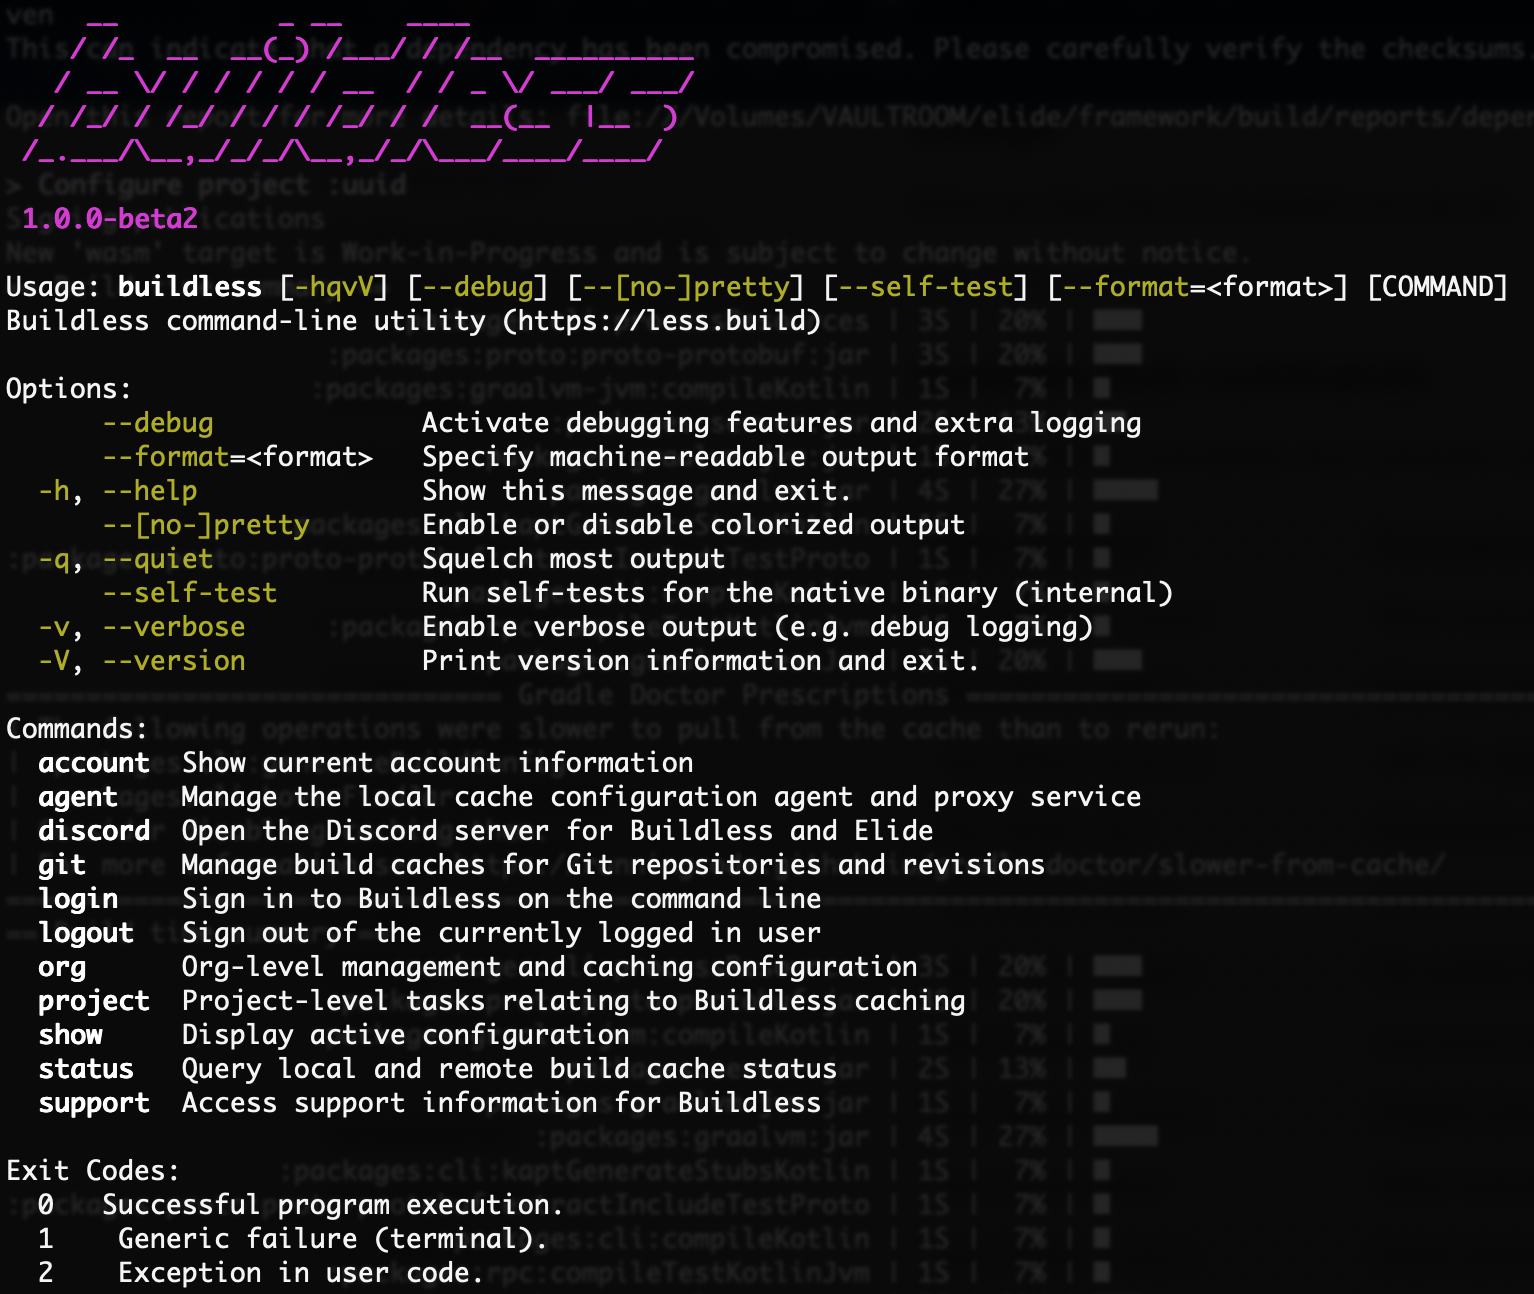
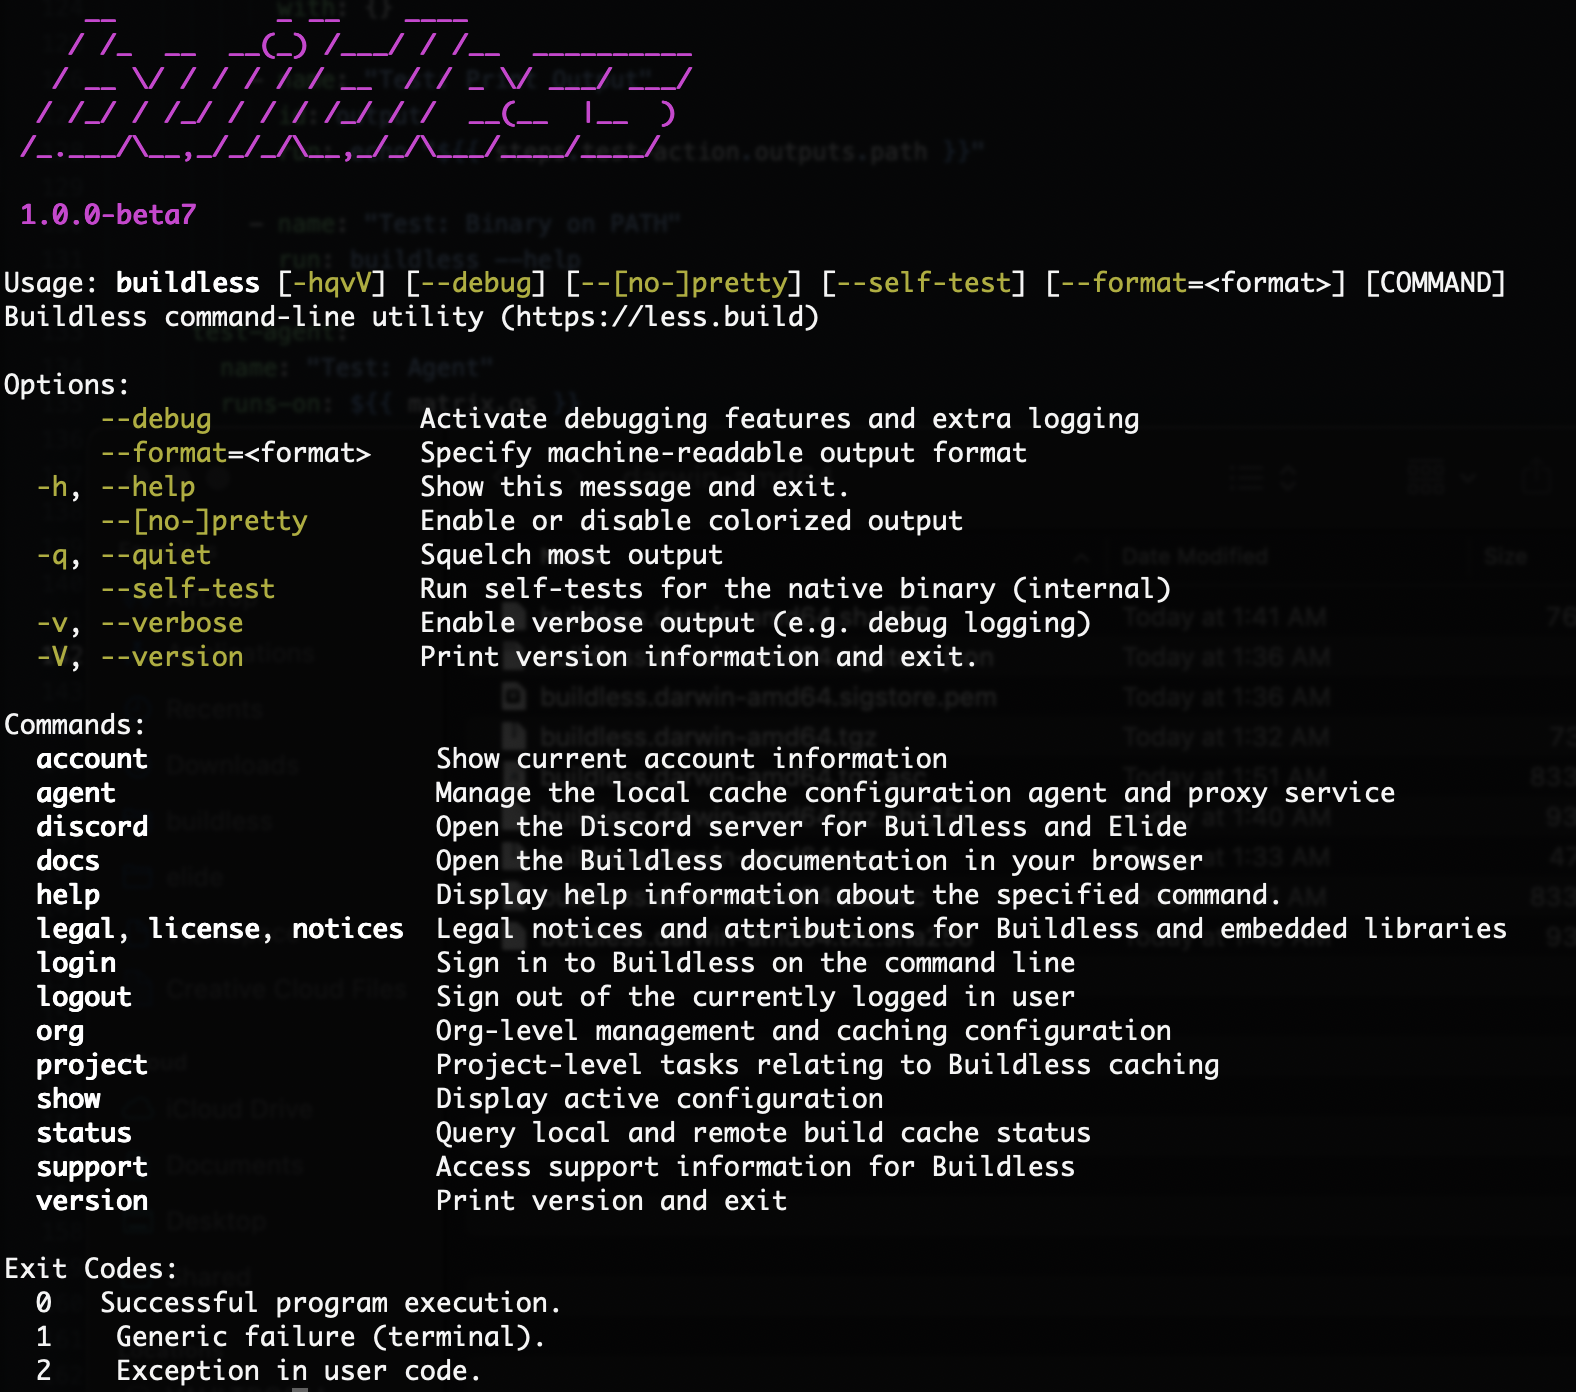
chore: release cli → `1.0.0-beta7`

Changed region(s): [[0.0, 0.0, 0.9804, 0.9892], [0.0, 0.8964, 0.3677, 1.0]]

diff --git a/README.md b/README.md
@@ -2,7 +2,7 @@
 
 > Buildless for the Command Line ([Docs][0])
 
-**Latest release:** `1.0.0-beta6`
+**Latest release:** `1.0.0-beta7`
 
 ![Output of buildless --help][helpimg]
 
